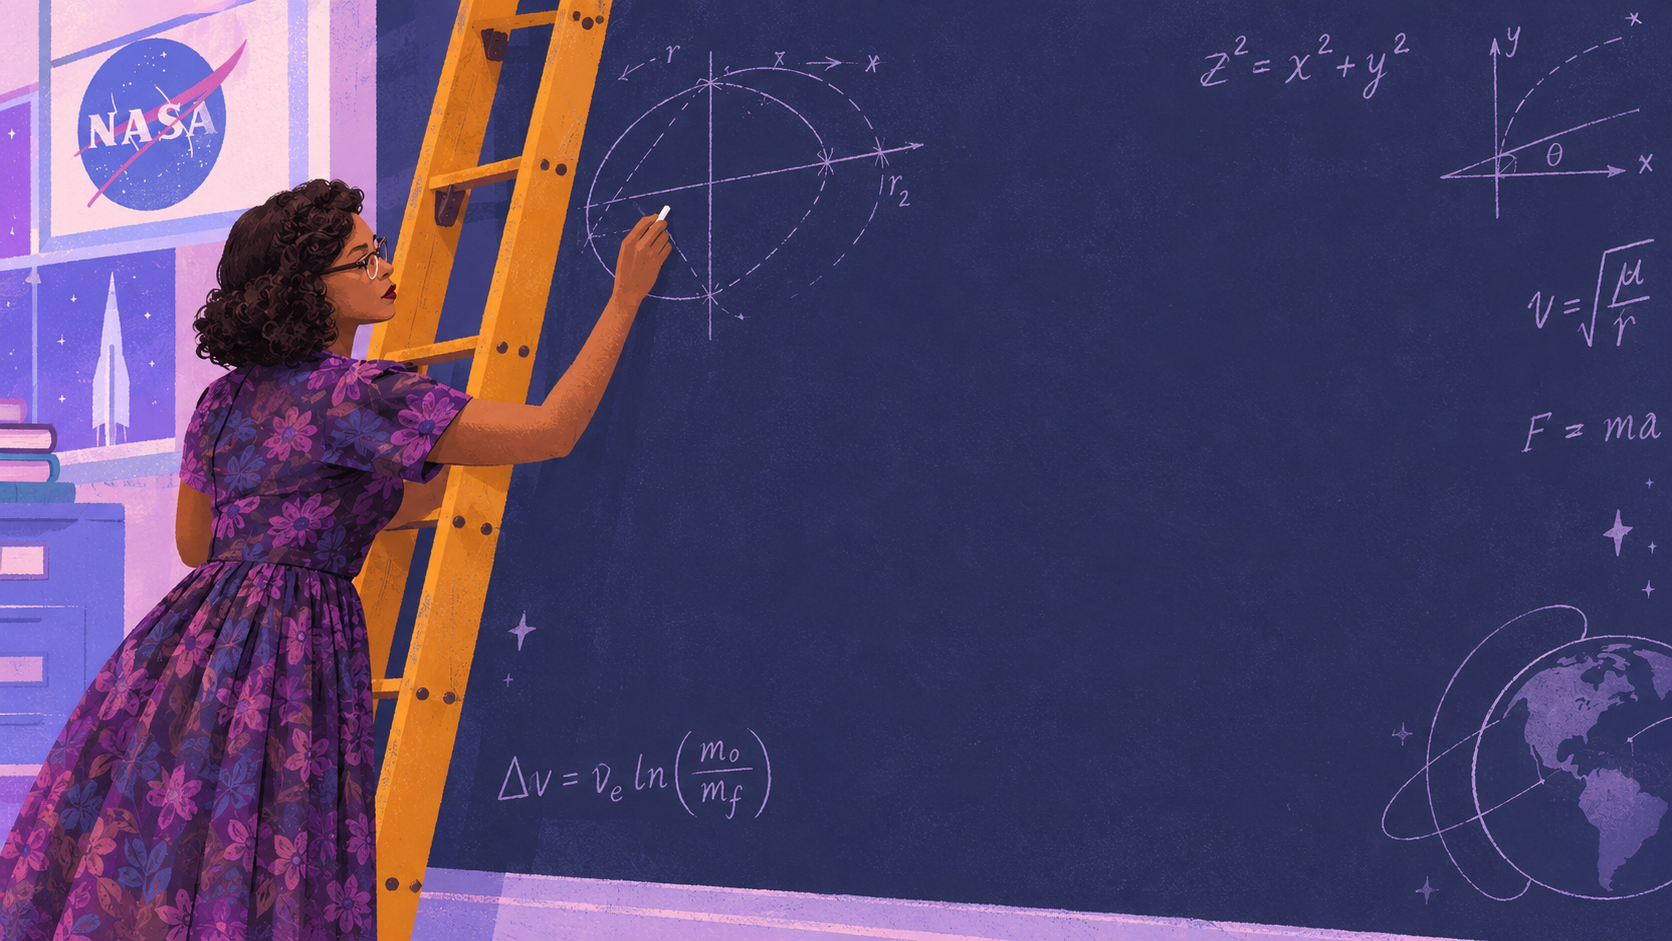
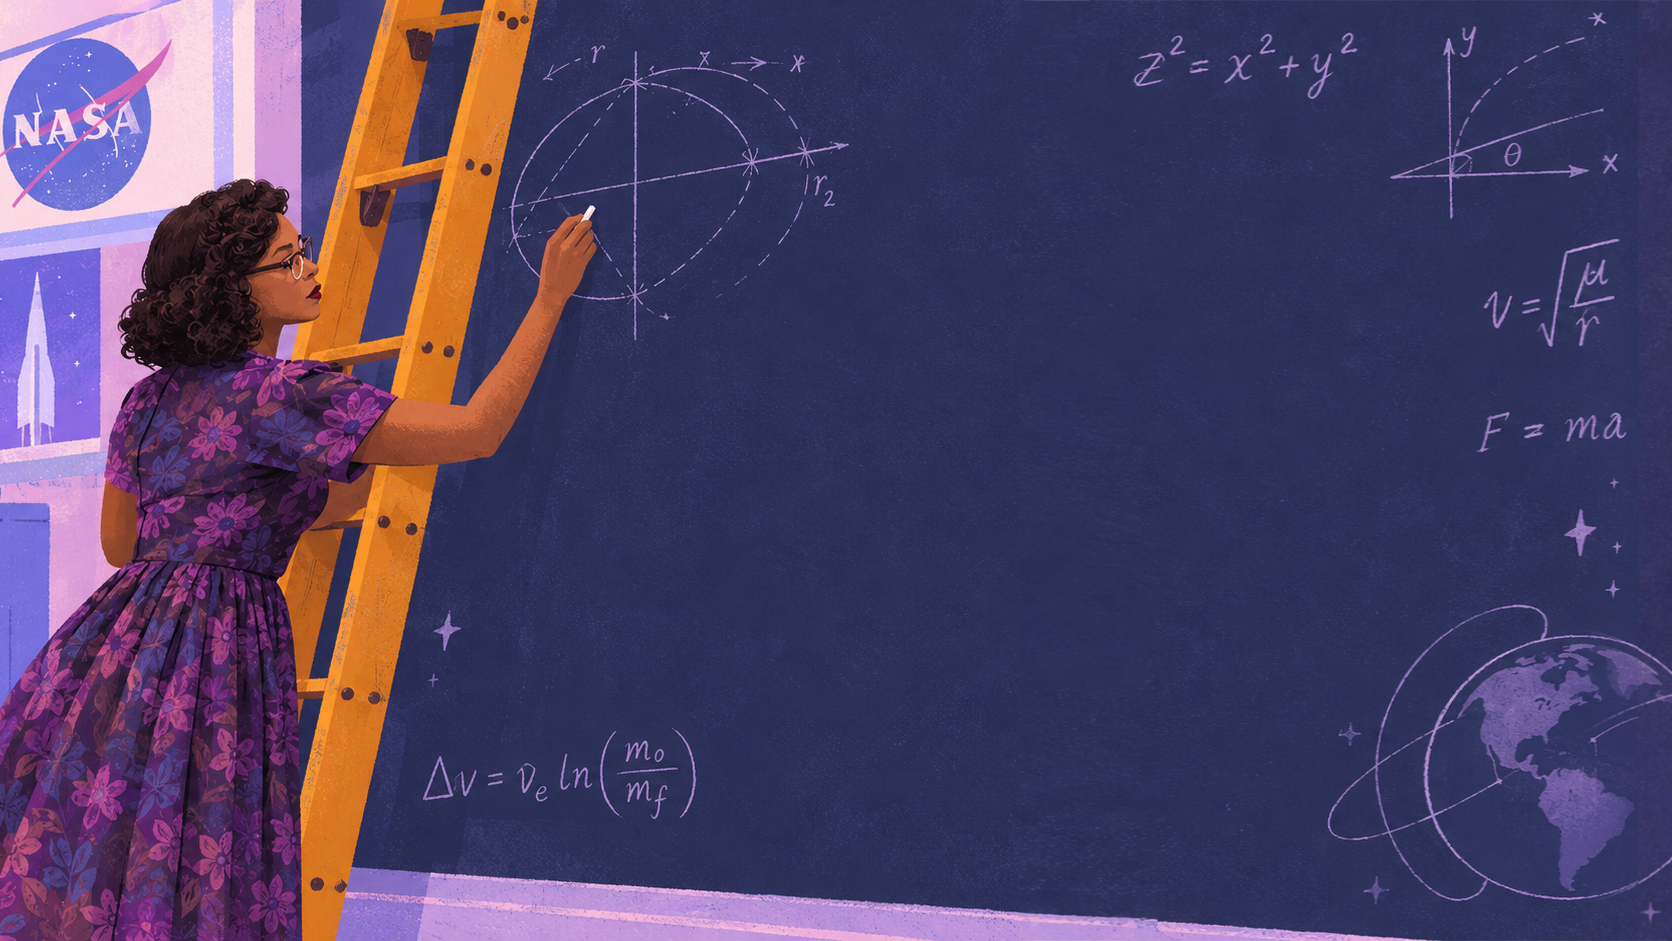
atualizando wallpaper de novo

diff --git a/styles.css b/styles.css
@@ -4,9 +4,9 @@
 
 body {
     font-family: "Segoe UI", Arial, sans-serif;
-    background-image: url('img/wlpp2.png');
+    background-image: url('img/wlpp2.png?v=2');
     background-size: cover;
-    background-position: center;
+    background-position: right center;
     background-repeat: no-repeat;
     background-attachment: fixed;
     min-height: 100vh;
